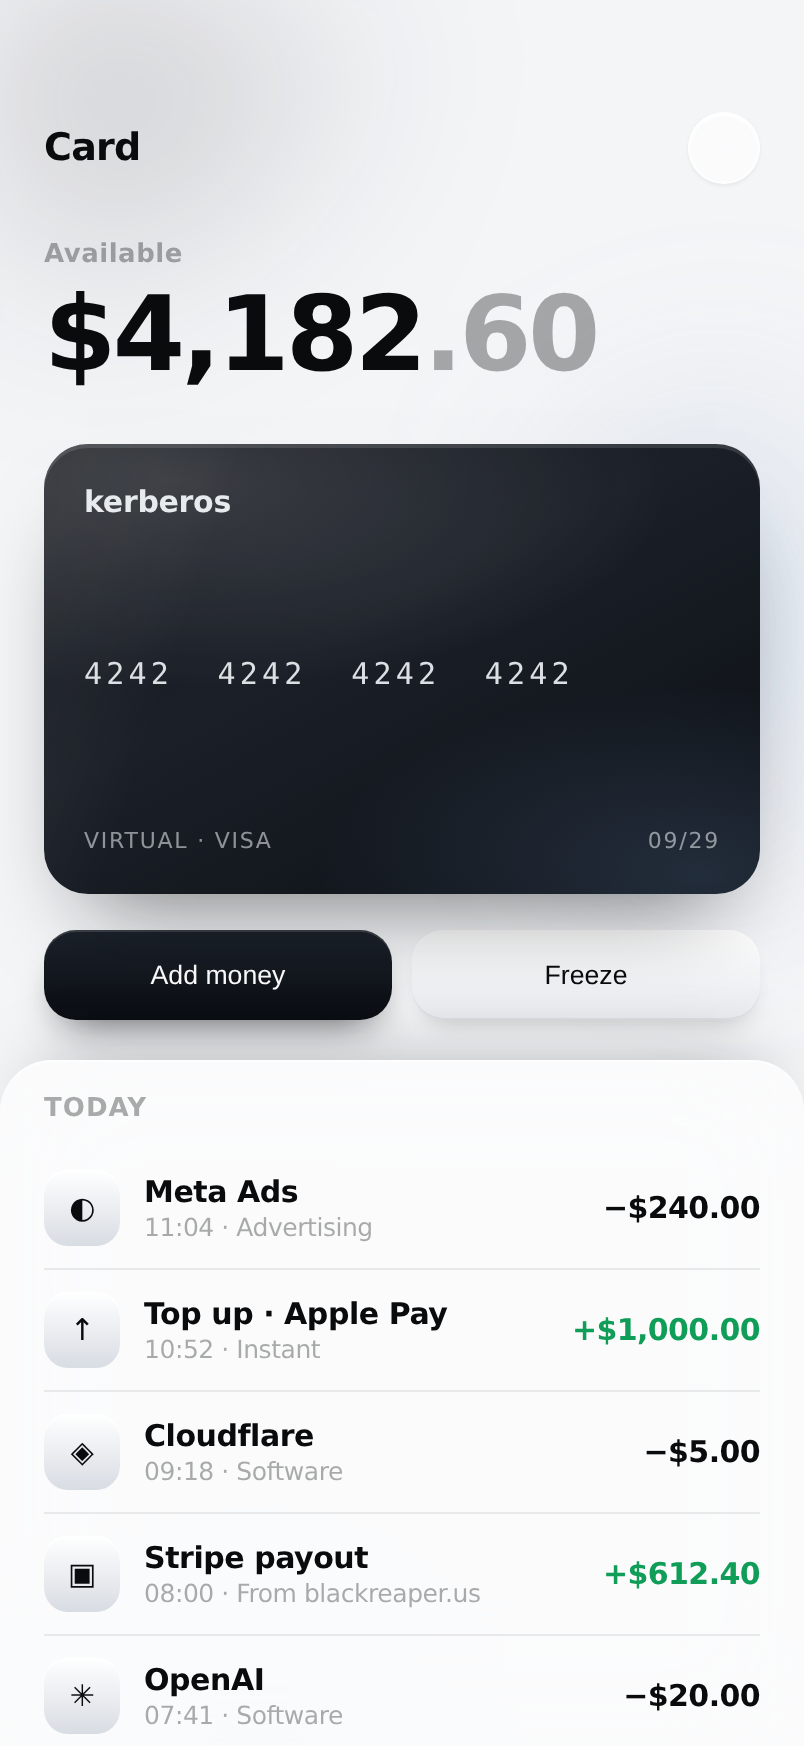
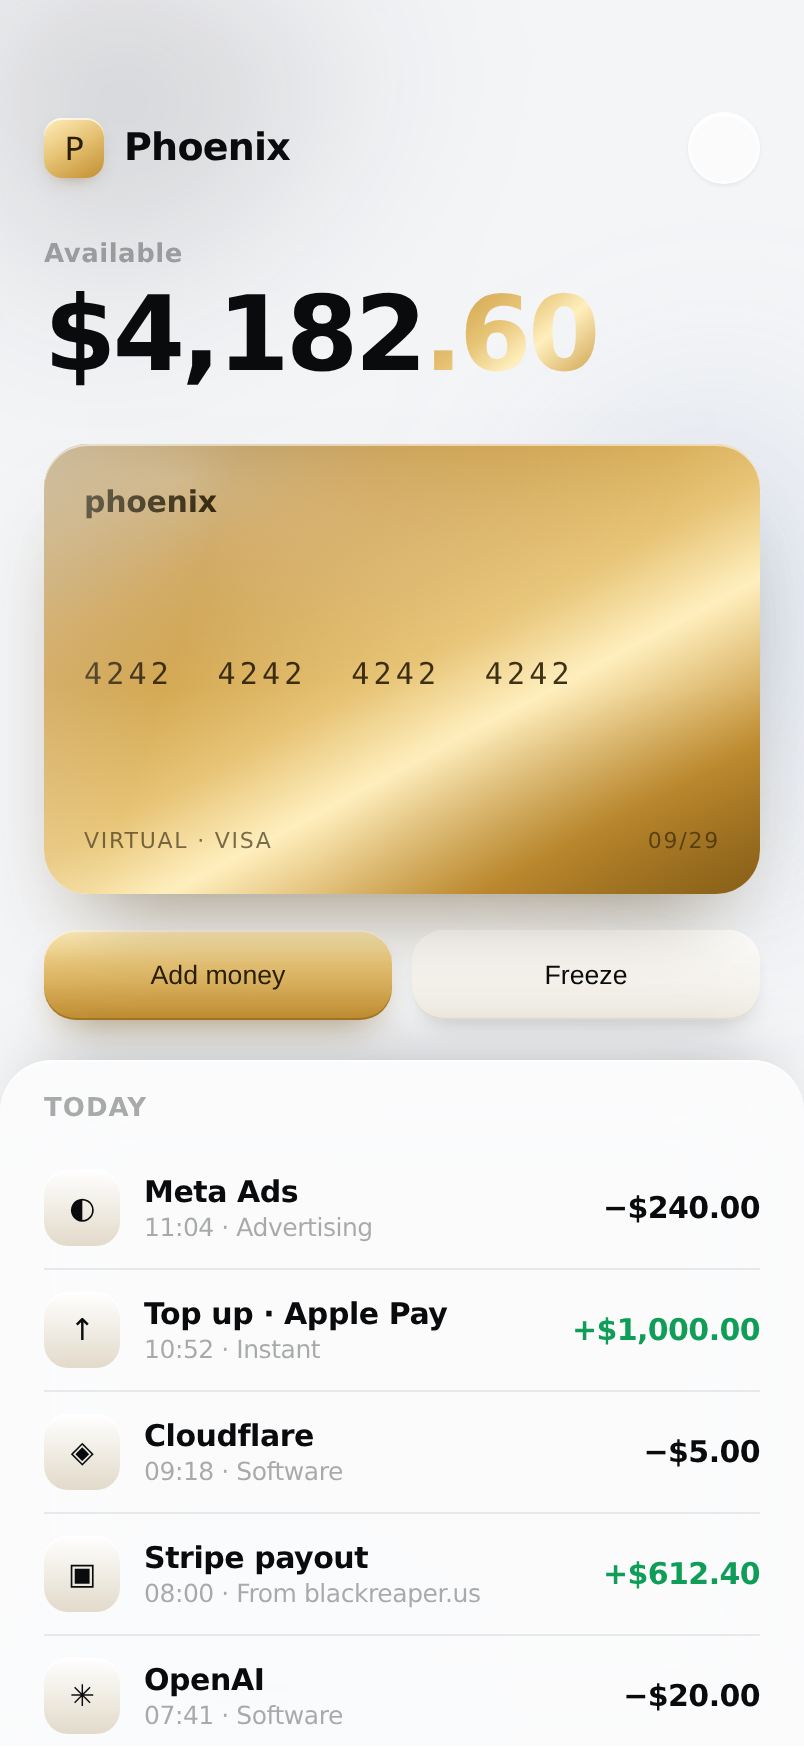
bank: Phoenix, in gold
His name and his metal. Same white base and the same dark water underneath —
gold on a dark app is a casino, gold on white is a coin.

Gold is built as a material rather than a colour: a light edge, a mid body, a
dark rim. Anything wearing it turns in the light instead of sitting flat, which
is the whole difference between metal and a yellow rectangle. The card takes
the full stack with a slow sheen across it; the balance takes it on the cents
only, because a whole number in gold is a gift card.

The mark is a slot. He is drawing the eagle himself — my attempt came out as
wheat — so the header holds a plain gold tile with a letter in it, sized and
positioned for his file. Swapping the letter for an <img> moves nothing else.

Still a prototype. Nothing is wired to a balance yet.

Claude-Session: https://claude.ai/code/session_0181L2kuKeioRLEVYRzeLmhY

Changed region(s): [[0.0311, 0.2471, 0.9639, 0.587], [0.0311, 0.0618, 0.3731, 0.1236], [0.5286, 0.1545, 0.7463, 0.2162]]

diff --git a/scratchpad/bank/card.html b/scratchpad/bank/card.html
@@ -1,6 +1,6 @@
 <!doctype html><html lang="en"><head><meta charset="utf-8">
 <meta name="viewport" content="width=device-width,initial-scale=1,viewport-fit=cover">
-<title>Card</title>
+<title>Phoenix</title>
 <style>
 :root{
   --ink:#0A0B0D; --ink-2:rgba(10,11,13,.56); --ink-3:rgba(10,11,13,.34);
@@ -9,7 +9,11 @@
   --sheen:rgba(255,255,255,.85); --hair:rgba(10,11,13,.08);
   --liq1:rgba(120,150,190,.34); --liq2:rgba(20,26,36,.30); --liq3:rgba(90,120,160,.22);
   --ok:#0F9D58;
-  --sil:#E9EBEF; --sil-2:#D8DCE3;
+  --sil:#F1EDE3; --sil-2:#E2DACA;
+  /* Gold as a material, not a colour: a light edge, a mid body and a dark
+     rim, so anything wearing it turns in the light instead of sitting flat. */
+  --au-1:#FFEFBE; --au-2:#E7C476; --au-3:#C28E31; --au-4:#8A621B;
+  --au-ink:#2A1E06;
   --pad:22px;
 }
 *{box-sizing:border-box;-webkit-tap-highlight-color:transparent}
@@ -36,32 +40,41 @@ body{
 /* ---- glass chrome ---------------------------------------------------- */
 .bar{display:flex;align-items:center;justify-content:space-between;padding:56px 0 18px}
 .bar b{font-size:19px;font-weight:700;letter-spacing:-.02em}
+.brand{display:flex;align-items:center;gap:10px}
+/* The mark goes here the moment his file arrives — swap the letter for an
+   <img> and nothing else moves. */
+.ico{width:30px;height:30px;border-radius:9px;display:grid;place-items:center;
+  background:linear-gradient(150deg,var(--au-1),var(--au-2) 46%,var(--au-3));
+  color:var(--au-ink);font:800 15px/1 inherit;
+  box-shadow:0 1px 0 rgba(255,255,255,.7) inset,0 4px 10px -6px rgba(120,86,20,.7)}
+.ico img{width:100%;height:100%;object-fit:contain;display:block}
 .dot{width:36px;height:36px;border-radius:50%;background:var(--glass);backdrop-filter:blur(22px) saturate(1.6);-webkit-backdrop-filter:blur(22px) saturate(1.6);border:1px solid var(--glass-b);box-shadow:0 1px 2px rgba(10,11,13,.06),inset 0 1px 0 var(--sheen)}
 
 /* ---- the balance ----------------------------------------------------- */
 .bal{padding:10px 0 26px}
 .bal small{display:block;font-size:13px;font-weight:600;color:var(--ink-3);letter-spacing:.02em}
 .bal b{display:block;font-size:52px;font-weight:700;letter-spacing:-.035em;line-height:1.05;margin-top:6px}
+.bal b em{font-style:normal;background:linear-gradient(140deg,var(--au-3),var(--au-2) 42%,var(--au-1) 62%,var(--au-3));-webkit-background-clip:text;background-clip:text;color:transparent}
 .bal b i{font-style:normal;color:var(--ink-3)}
 
 /* ---- the card: silicone, not glass ----------------------------------- */
 .card{
   position:relative;aspect-ratio:1.586;border-radius:22px;overflow:hidden;
-  background:linear-gradient(152deg,#12151B 0%,#1B2028 42%,#0B0E13 100%);
-  box-shadow:0 26px 44px -22px rgba(10,11,13,.55), 0 2px 0 rgba(255,255,255,.12) inset;
-  color:#F2F5F8;padding:20px;display:flex;flex-direction:column;justify-content:space-between;
+  background:linear-gradient(152deg,var(--au-4) 0%,var(--au-3) 24%,var(--au-2) 50%,var(--au-1) 62%,var(--au-3) 82%,var(--au-4) 100%);
+  box-shadow:0 26px 44px -22px rgba(74,52,10,.55), 0 1px 0 rgba(255,255,255,.55) inset;
+  color:var(--au-ink);padding:20px;display:flex;flex-direction:column;justify-content:space-between;
 }
 /* the soft rubber highlight that makes it read as silicone rather than plastic */
 .card::before{content:"";position:absolute;inset:0;background:
-  radial-gradient(120% 80% at 18% 8%,rgba(255,255,255,.16),transparent 58%),
-  radial-gradient(90% 70% at 92% 96%,rgba(120,160,210,.20),transparent 60%);pointer-events:none}
+  radial-gradient(120% 80% at 18% 8%,rgba(255,255,255,.42),transparent 58%),
+  radial-gradient(90% 70% at 92% 96%,rgba(120,80,10,.22),transparent 60%);pointer-events:none}
 .card::after{content:"";position:absolute;left:-40%;top:-60%;width:80%;height:220%;transform:rotate(18deg);
-  background:linear-gradient(90deg,transparent,rgba(255,255,255,.10),transparent);animation:sheen 7s ease-in-out infinite}
+  background:linear-gradient(90deg,transparent,rgba(255,255,255,.55),transparent);animation:sheen 7s ease-in-out infinite}
 @keyframes sheen{0%,62%{transform:translateX(-30%) rotate(18deg)}100%{transform:translateX(320%) rotate(18deg)}}
 .card .mk{font-size:15px;font-weight:700;letter-spacing:-.01em;opacity:.95}
 .card .no{font-family:ui-monospace,SFMono-Regular,Menlo,monospace;font-size:15px;letter-spacing:.14em;opacity:.9}
 .card .ft{display:flex;align-items:flex-end;justify-content:space-between}
-.card .ft span{font-size:11px;letter-spacing:.08em;text-transform:uppercase;opacity:.55}
+.card .ft span{font-size:11px;letter-spacing:.08em;text-transform:uppercase;opacity:.62}
 
 /* ---- silicone buttons ------------------------------------------------ */
 .acts{display:grid;grid-template-columns:1fr 1fr;gap:10px;margin:18px 0 20px}
@@ -72,7 +85,11 @@ body{
   transition:transform .12s ease,box-shadow .12s ease;
 }
 .btn:active{transform:translateY(1px) scale(.995);box-shadow:0 1px 3px rgba(10,11,13,.18) inset}
-.btn--go{background:linear-gradient(180deg,#1C222B,#0B0E13);color:#fff;box-shadow:0 1px 0 rgba(255,255,255,.14) inset,0 10px 20px -10px rgba(10,11,13,.7)}
+.btn--go{
+  background:linear-gradient(180deg,var(--au-1),var(--au-2) 38%,var(--au-3));
+  color:var(--au-ink);
+  box-shadow:0 1px 0 rgba(255,255,255,.7) inset,0 -1px 0 rgba(138,98,27,.5) inset,0 10px 20px -10px rgba(120,86,20,.65);
+}
 
 /* ---- the list, on glass ---------------------------------------------- */
 .sheet{
@@ -94,11 +111,14 @@ body{
 </style></head><body>
 <div class="water"><i class="w1"></i><i class="w2"></i><i class="w3"></i></div>
 <div class="app">
-  <div class="bar"><b>Card</b><span class="dot"></span></div>
-  <div class="bal"><small>Available</small><b>$4,182<i>.60</i></b></div>
+  <div class="bar">
+    <span class="brand"><span class="ico">P</span><b>Phoenix</b></span>
+    <span class="dot"></span>
+  </div>
+  <div class="bal"><small>Available</small><b>$4,182<em>.60</em></b></div>
 
   <div class="card">
-    <div class="mk">kerberos</div>
+    <div class="mk">phoenix</div>
     <div class="no">4242&nbsp;&nbsp;4242&nbsp;&nbsp;4242&nbsp;&nbsp;4242</div>
     <div class="ft"><span>Virtual · Visa</span><span>09/29</span></div>
   </div>
